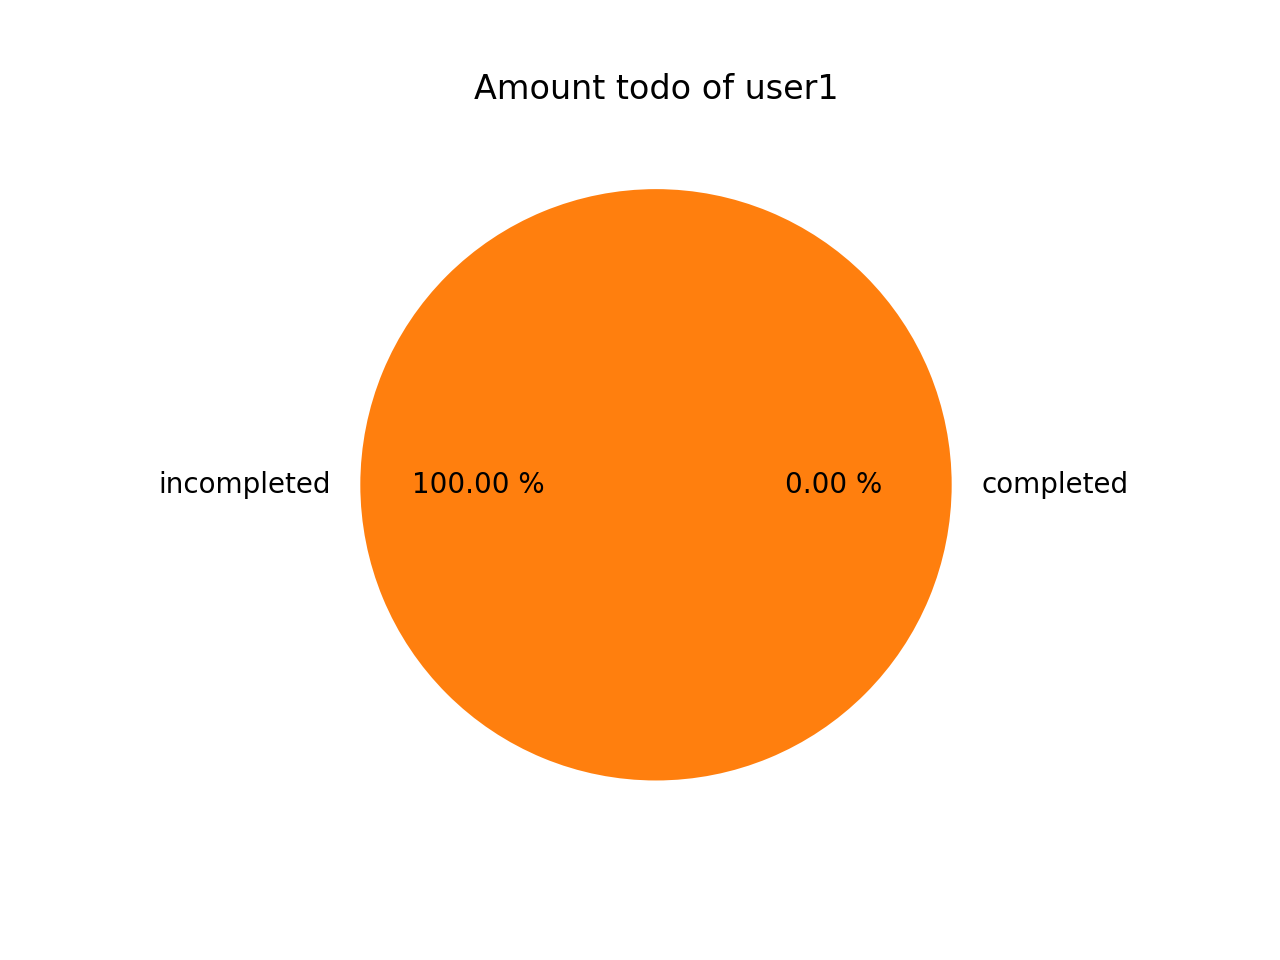
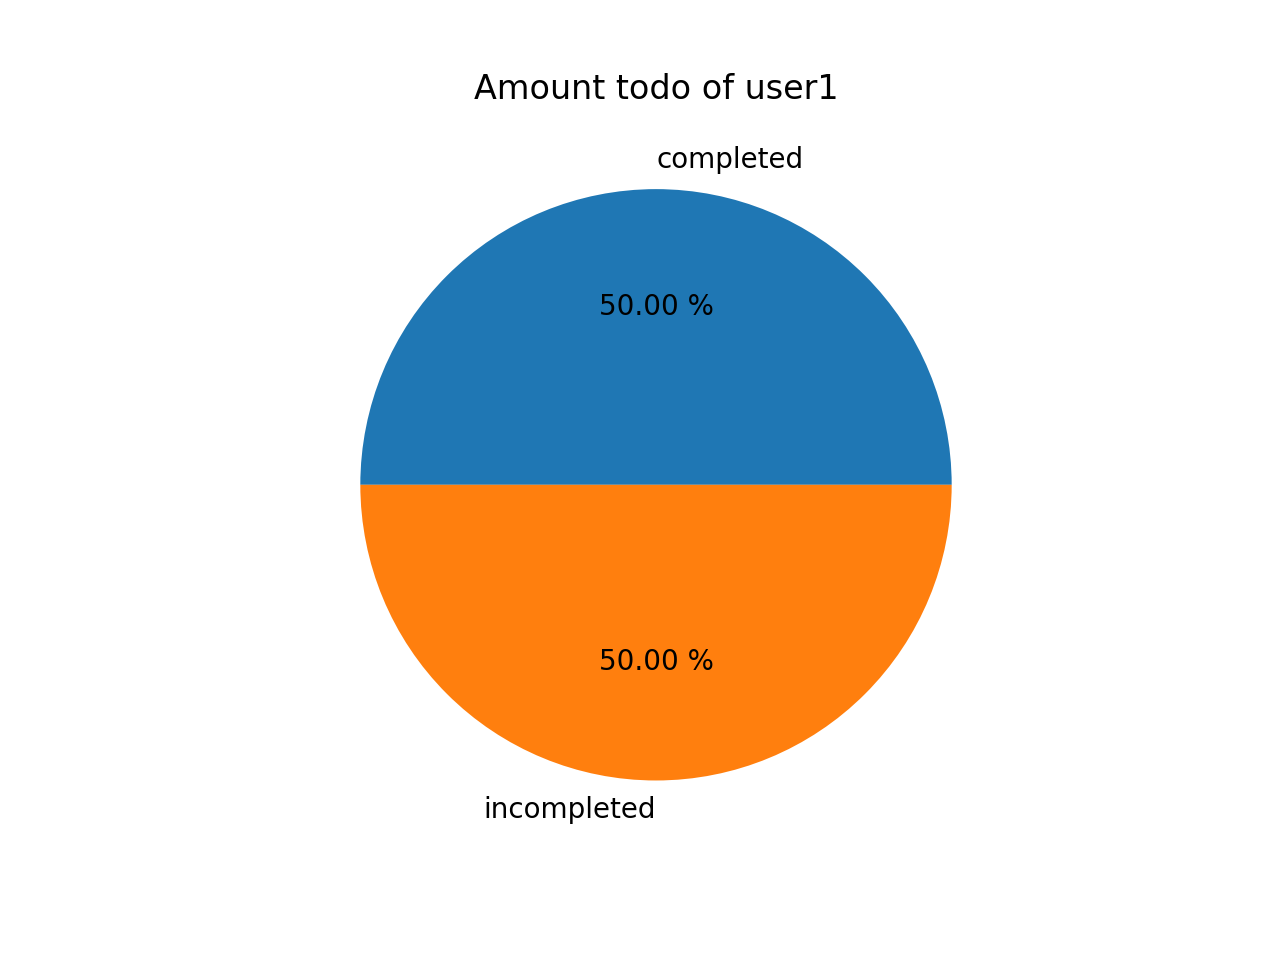
add import export

diff --git a/guiW2.py b/guiW2.py
@@ -1,12 +1,13 @@
 from tkinter.font import Font
 from tkinter import *
 from tkinter import messagebox
-from tkinter import ttk
+from tkinter import ttk, filedialog
 from tkinter.font import Font
 from note import NoteManager
 from tkcalendar import DateEntry # pip install tkcalendar
 from datetime import datetime, date
 from time import strftime
+from tkinter.filedialog import askopenfile
 
 # Creating App class which will contain
 class App:
@@ -335,7 +336,20 @@ class App:
                 task_status.configure(text = str(task_listbox.size()) + " list ")
                 task_listbox.select_clear(0, END)
 
+        def import_data():
+            file = filedialog.askopenfilename(filetypes=[('Json file', '*.json')])
+            print(file)
+            if file:
+                self.note.load_file(file)
+                fetch_data()
+                fetch_listbox()
+                self.note.graph()
 
+        def export_data():
+            file = filedialog.asksaveasfilename(filetypes=[('Json file', '*.json')]) + '.json'
+            print(file)
+            if file:
+                self.note.export_file(file)
         #///////////////////////////
         self.note.loadJson()
         self.account = self.note.getAccout()
@@ -358,8 +372,8 @@ class App:
         menubar.add_cascade(label="Account", menu=account_menu)
         # create edit menu
         edit_menu = Menu(menubar, tearoff=0)
-        edit_menu.add_command(label="Import",  command= lambda: editWindow(self.master))
-        edit_menu.add_command(label="Export",  command= lambda: editWindow(self.master))
+        edit_menu.add_command(label="Import",  command= lambda: import_data())
+        edit_menu.add_command(label="Export",  command= lambda: export_data())
         edit_menu.add_separator()
         edit_menu.add_command(label="Delete All Complete",  command=del_all)
 

diff --git a/note.py b/note.py
@@ -61,9 +61,13 @@ class NoteManager:
     def updateCurrentUser(self):
         self.userTodo[self.user.getName()] = self.todoCompleted + self.todoIncompleted
     
-    def toJson(self):
-        with open(self.filename, "w") as write_file:     # convert dict to json file
-            json.dump(self.userTodo, write_file)
+    def toJson(self, path=""):
+        if len(path)>0:
+            with open(path, "w") as write_file:     # convert dict to json file
+                json.dump(self.userTodo, write_file)
+        else:
+            with open(self.filename, "w") as write_file:     # convert dict to json file
+                json.dump(self.userTodo, write_file)
 
     def loadJson(self, name=""):
         with open(self.filename, "r") as read_file:  # convert json file to dict
@@ -102,8 +106,9 @@ class NoteManager:
         self.user.changeName(self.getAccout()[0])
     
     def export_file(self, path):
-        self.filename = path
-        self.toJson()
+        # self.filename = path
+        self.updateCurrentUser()
+        self.toJson(path)
 
     def graph_pie(self):
         name = self.user.getName()
